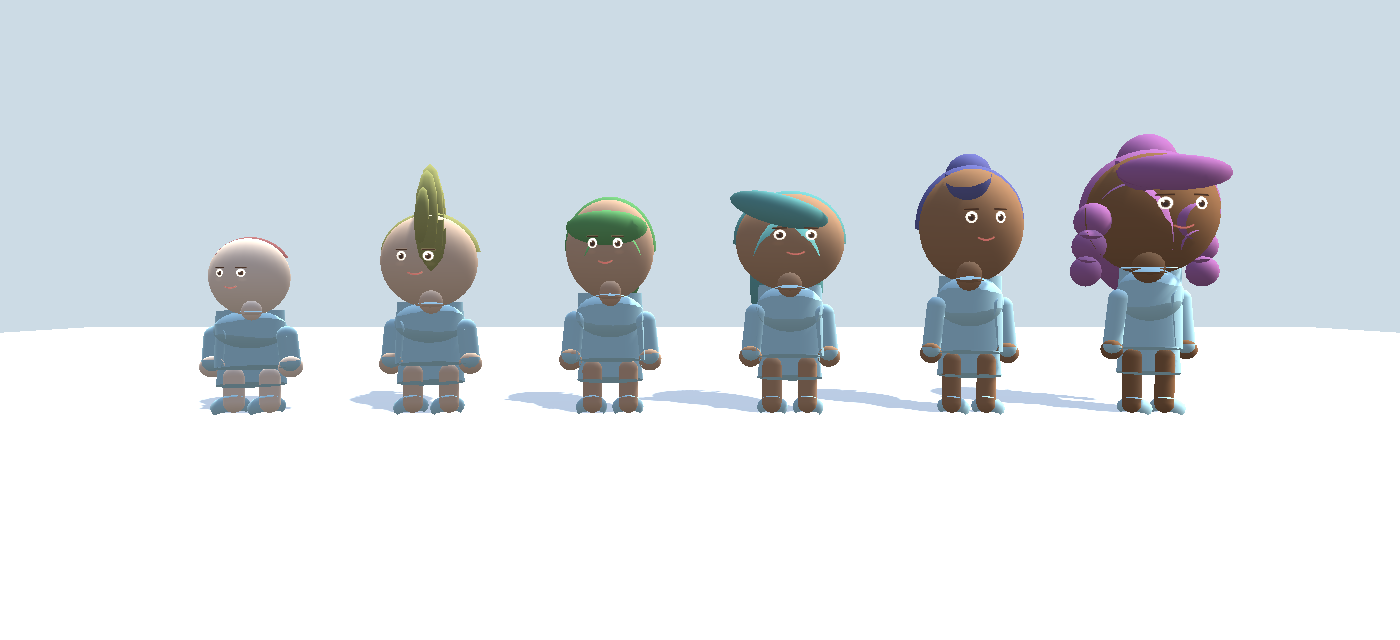
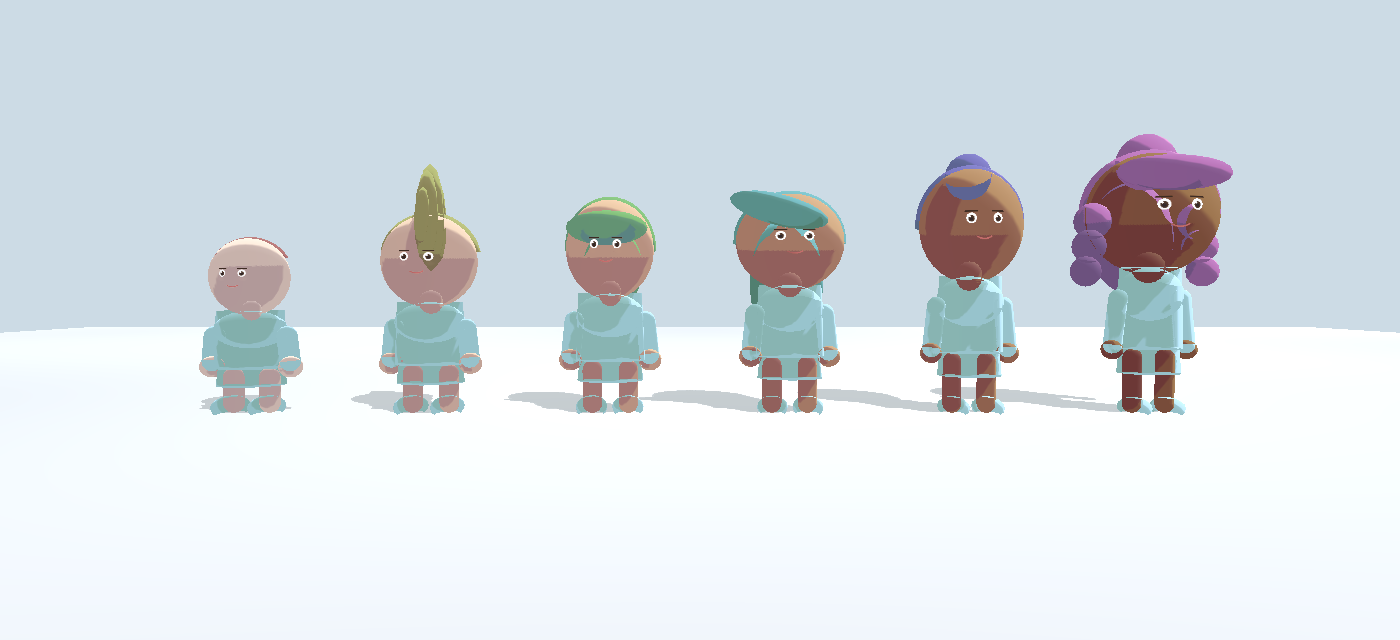
Los tres veredictos que faltaban, y la captura que nadie había mirado
memoria y fiestas APROBADOS —sus costuras ya están aplicadas y probadas en los
dos commits anteriores—. chibi RECHAZADO: escribió el encuadre que demostraba su
propio arreglo, dejó dos huecos «pendiente de cola» en el informe, y no volvió a
por ellos aunque la cola quedó libre una hora después.

La saco yo, porque un rechazo cuya única prueba es mirar no se cierra sin mirar:
`Capturas/estilo_vecino_de_espaldas_ola6.png`. El casquete cierra. Quedan una
franja de dientes de sierra en la nuca y un hueco entre casquete y moño que no
sé si son el peinado o un defecto — eso lo juzga el usuario, no yo.

Y `ola.sh`, para lanzar olas con los agentes visibles en herdr y el tope de tres
que la RAM impone. `pgrep -fc` imprime 0 y sale con 1 cuando no hay ninguno, así
que el respaldo metía un segundo cero y la comparación recibía «0\n0».

diff --git a/Informes/veredicto-chibi.md b/Informes/veredicto-chibi.md
@@ -1,0 +1,71 @@
+# Veredicto — nimbo-chibi
+
+```
+VEREDICTO: RECHAZADO
+DIFF REAL: (commit 341d3d8, porción chibi)
+  Assets/_Project/Scripts/Art/Chibi/MeshShapes.cs        +27 −1  (disco de cierre, :121-137)
+  Assets/_Project/Scripts/Art/Chibi/ChibiMeshBuilder.cs  +62 −15 (BuildFaceQuad, :503-590)
+  Assets/_Project/Tests/ChibiCercaTests.cs               +160 (nuevo) + .meta
+  Assets/_Project/Tests/PlayMode/CapturaEstilo.cs        +48 −0 (RetrataVecinoDeEspaldas, :136-171)
+¿CUADRA CON SU INFORME?: sí en código, no en resultados — el informe declara dos
+  [PENDIENTE_DE_COLA] (PlayMode completo y captura) que nunca se rellenaron.
+PRUEBAS: 588 editor / 142 juego / 0 rojas (todo-edit-EditMode.xml, todo-play-PlayMode.xml,
+  contra línea base viva 588/142/0 — sin bajas). ChibiCercaTests: 2/2 verdes en la corrida
+  completa. CapturaEstilo.RetrataElEstilo consta como Skipped por [Explicit]: es la
+  herramienta de capturas de siempre, exención legítima.
+FUERA DE SU CARPETA: ChibiCercaTests.cs (+meta) en Tests/ — declarado en el informe.
+  CapturaEstilo.cs — concedido por el encargo. Nada más atribuible a chibi.
+¿ENCHUFADO?: NO — es el motivo del rechazo (defecto 1).
+DEFECTOS:
+  1. La captura que el encargo exige no existe. El encargo dice «Esto se juzga mirándolo»
+     y pide el encuadre nuevo en CapturaEstilo.cs; el código está (:136-171) y el informe
+     dice qué mirar, pero `Capturas/estilo_vecino_de_espaldas_*.png` no existe — nadie lo
+     ha visto jamás, autor incluido. El informe dejó «[PENDIENTE_DE_COLA]» en PlayMode y
+     captura (informe-chibi.md:84-85) y no se tocó más (mtime 03:04); su propia corrida
+     filtrada terminó a las 04:13, o sea que la cola estaba libre después del informe y
+     no volvió a intentarlo. Acción: `NIMBO_ESTILO=<sufijo> Tools/agentes/unity.sh
+     PlayMode nimbo-chibi "CapturaEstilo"`, mirar el PNG con lo que el propio informe
+     promete (nuca con pelo sólido, interior del pelo como superficie, sin borde en
+     canto), rellenar los dos huecos del informe y actualizarlo si lo visto contradice
+     lo esperado.
+  2. Comentario falso en la prueba nueva: ChibiCercaTests.cs:78-80 dice usar «los dos
+     extremos de lo que se usa en ChibiMeshBuilder» con coberturas {0,44, 0,62}, pero las
+     coberturas reales son {0,34 rapado (:355), 0,44 (:356), 0,52 (:357), 0,55 gorro
+     (:302), 0,62 capucha (:260)}: el extremo bajo es 0,34 y no se prueba. La topología
+     es idéntica para cualquier cobertura así que la aserción no pierde valor, pero el
+     comentario miente sobre qué cubre. Acción: añadir 0,34 al bucle o corregir el
+     comentario.
+AFIRMACIONES SIN RESPALDO:
+  - «cara y mejilla sombreadan como una sola superficie» (informe-chibi.md:46): el
+    mecanismo es real (mismas normales analíticas del elipsoide, escritas y no
+    recalculadas — verificado en ChibiMeshBuilder.cs:574-584), pero que el resultado se
+    LEA como una sola superficie es un juicio visual que nadie ha hecho. Queda cubierto
+    por el defecto 1: es exactamente lo que hay que mirar en la captura.
+LO QUE ESTÁ BIEN (no deshacer):
+  - El disco de cierre es correcto y mínimo: centro en y=0,5·cos(maxPhi) exactamente en
+    el plano del último anillo (MeshShapes.cs:126), winding idéntico a la tapa inferior
+    de Cylinder (:267), coste segments triángulos + 1 vértice. Los números del informe
+    cuadran con el código: pelo 20 (:363), capucha 20 (:260), gorro 18 (:302), campana
+    400 tris, +40 por vecino en el peor caso.
+  - La cara usa los semiejes de verdad: la cabeza se escala (headWidth, headHeight,
+    headWidth·0,94) sobre esfera de radio 0,5 (ChibiMeshBuilder.cs:141-143) → az =
+    headWidth·0,47, exactamente lo que usa BuildFaceQuad. Las mates del informe verifican:
+    (0,74)²+(0,62)²=0,932<1; sin triángulos nuevos (81 vértices/128 tris); offset +4 mm →
+    −6 mm por SmoothStep(0,5,1,borde). El argumento convexidad→contorno enterrado es
+    sólido y la prueba Lo afirma con f<0,99 en el borde.
+  - El espejo de proporciones de ChibiCercaTests.cs:119-126 coincide línea a línea con
+    HeightOf/HeadCentreOf (:92-105, HeadShare=0,42 en :62) y está declarado como copia a
+    mantener.
+  - Costura con nimbo-ropa respetada: RopaLookTests 9/9, RopaDiariaTests 3/3,
+    RopaEnLaIslaTests 4/4, HairStyleTests 6/6 — los «16 de ropa y 6 de peinados» del
+    informe son exactos.
+  - Honestidad poco común: declara el fallo de su primera versión de la prueba, declara
+    el estrechamiento del ~9 % de los rasgos como consecuencia asumida, y la debilidad
+    de `limpia_huerfanos` que describe (unity.sh:39, `flock -n … || return 0` no evalúa
+    al titular) es real y útil para el orquestador.
+NOTA DE COSTURA (no es de chibi): el árbol tiene trabajo post-commit ajeno a este
+  informe — CapturaPersonajes.cs +16 (encuadre personajes_desde_abajo, mtime 07:59),
+  Capturas/personajes_desde_abajo.png y los *_antes.png, e ISocialService.cs/
+  GameBootstrap.cs/SocialSection.cs (08:06). Ninguno aparece en informe-chibi.md ni es
+  suyo por fechas; hay otro agente o el orquestador trabajando. No imputarlo a chibi,
+  pero alguien debe reclamarlo.
